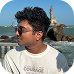
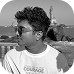
spacing fix

diff --git a/index.html b/index.html
@@ -114,7 +114,7 @@
       <h2><span class="text-accent">Shipped</span> <br />Work</h2>
       <div class="work-container mc">
         <div class="work-header">
-          <h3>MetricsCart</h3>
+          <h3>1. MetricsCart</h3>
           <div class="work-connector"></div>
           <p class="project-tagline">Digital Shelf analytics platform</p>
         </div>
@@ -157,7 +157,7 @@
 
       <div class="work-container sh">
         <div class="work-header">
-          <h3>ScrapeHero</h3>
+          <h3>2. ScrapeHero</h3>
           <div class="work-connector"></div>
           <p class="project-tagline">Data as a Service Ecosystem</p>
         </div>

diff --git a/styles.css b/styles.css
@@ -460,7 +460,7 @@ header.scrolled .resume-btn {
   display: flex;
   flex-direction: column;
   padding: 5rem 0.5rem 6rem 0.5rem;
-  gap: 5rem;
+  gap: 3rem;
 }
 
 .work-container {
@@ -471,6 +471,7 @@ header.scrolled .resume-btn {
 .mc {
   padding-bottom: 0;
   border-bottom: none;
+  margin-bottom: 4rem;
 }
 
 
